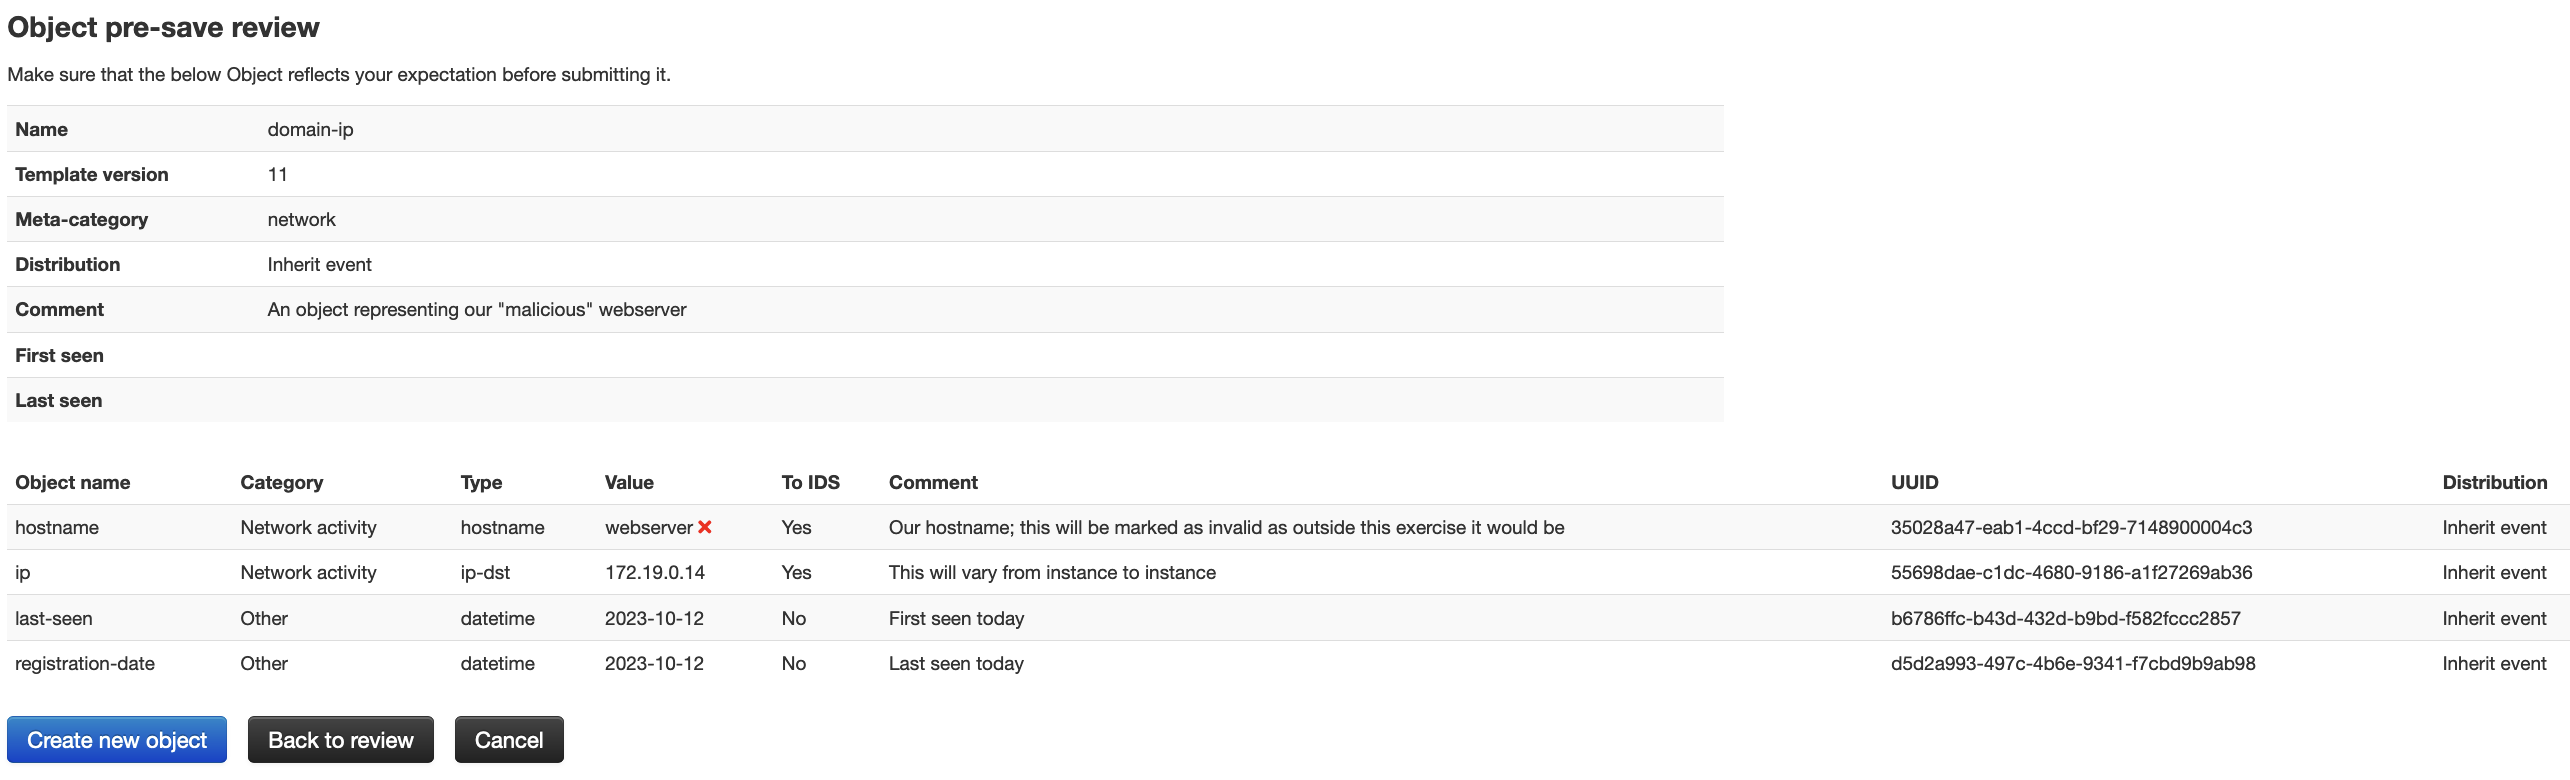
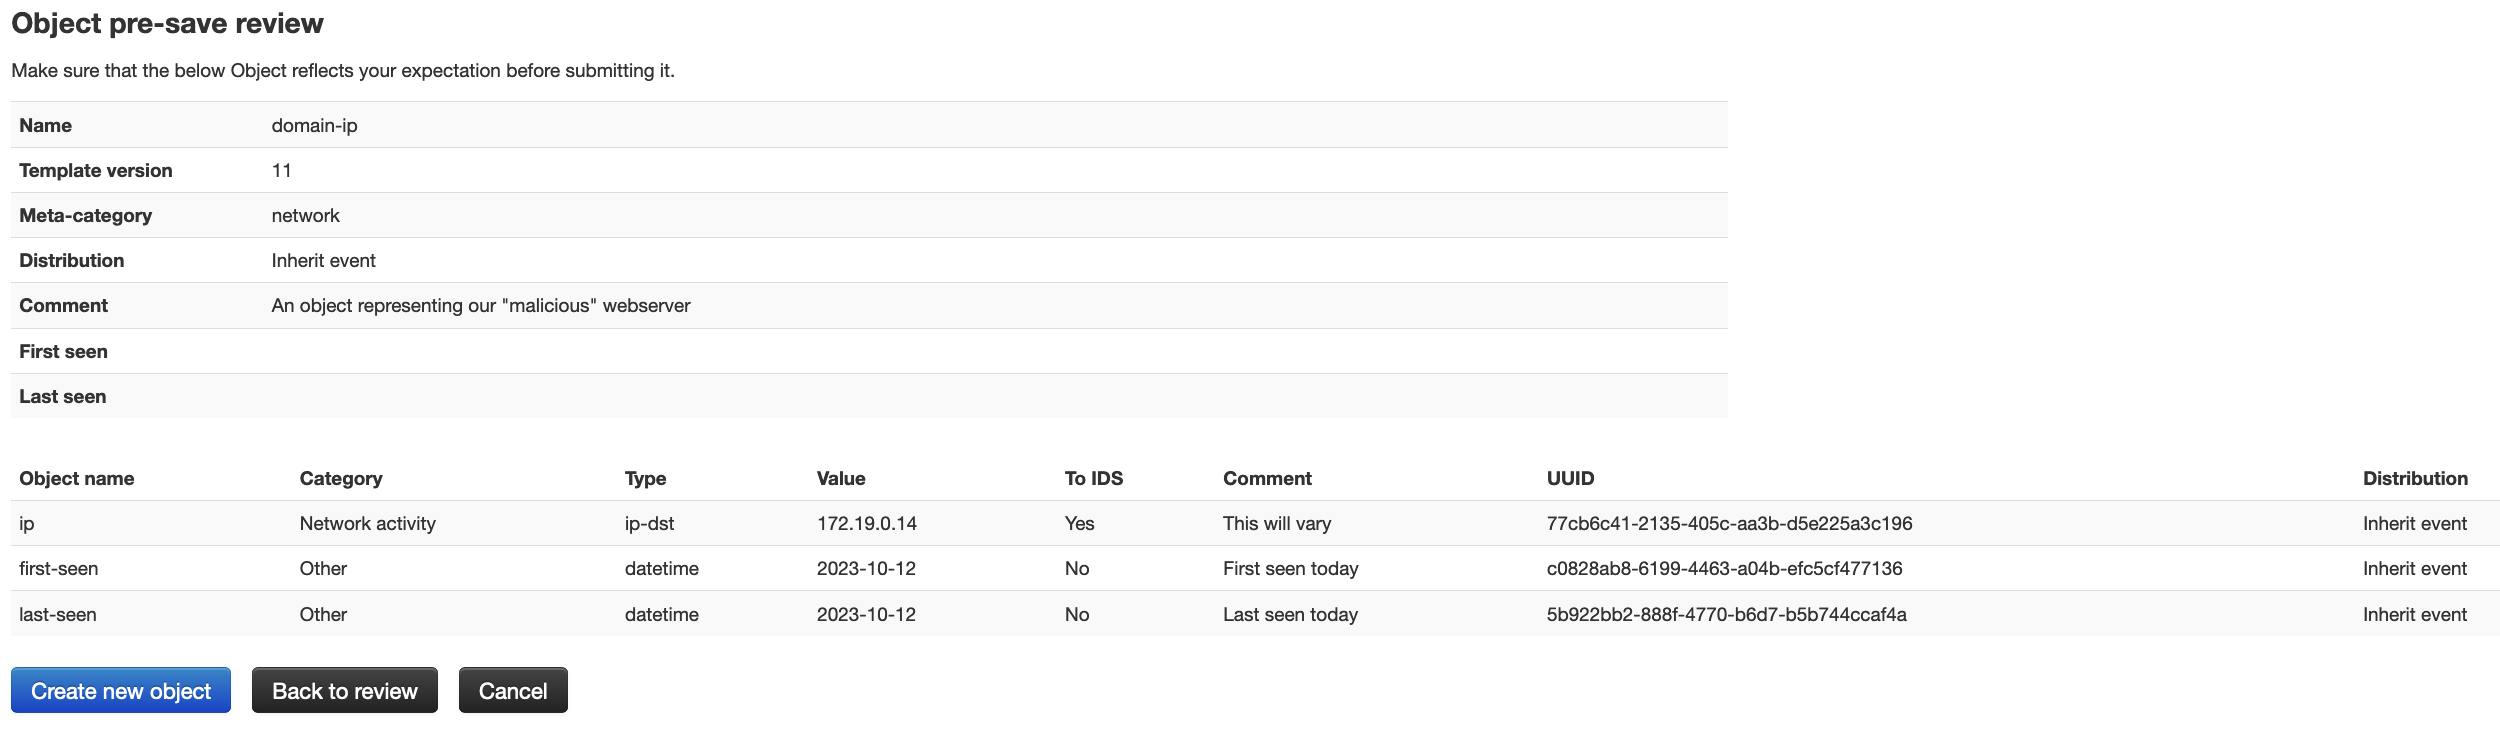
update

diff --git a/docs/exercise_six.md b/docs/exercise_six.md
@@ -37,11 +37,16 @@ Having generated some logs using zeek, we're now going to explore MISP.
 15. We'll start by adding a "network" object. Go to Add Object, and start typing "network". Click on that option and you'll see another option dropdown - start typing "domain" and choose "domain:ip"
 ![MISP domainip](images/misp_8.png)
 16. This page lets us fill in all the information we have about given domain/ip. We can add:
-    - Hostname: webserver
 	- IP: (the IP you identified earlier)
 	- You might also add first seen/last seen as today
-17. It's good practice to put comments wherever you have the option to, so add comments both to the object itself and the individual attributes, then click Submit. You'll see a review of the information, then click "Create new object" if you're happy
+17. It's good practice to put comments wherever you have the option to, so add comments both to the object itself and the individual attributes, then click Submit. You'll see a review of the information, then click "Create new object" if you're happy. MISP will attempt to validate your entries; if it finds an issue it will alert you before you can proceed.
 ![MISP domainip](images/misp_9.png)
+18. You can now see the attributes in the main event page. Note that MISP has highlighted the date in red as these attributes have not been "published" yet; i.e. it will not be propagated to sharing groups, and the attributes will not be available via the API
+![MISP domainip](images/misp_10.png)
+19. MISP uses the idea of working on an "unpublished" event until it has been completed to a certain level: the full results of an initial analysis, for example, or attributes that have not been reviewed by a user with the rights to publish. This means that a team can work on an event safe in the knowledge that the attributes will not be published until a team leader, for example, has provided a cross check.
+20. To publish, click "Publish no email" on the left hand side. While we would normally inform users of a new event, we have no other users.
+21. If you return to the home screen and select the event again, you'll see that the dates attached to the attributes are no longer highlighted since the event has been published.
+22. You can also add additional objects - for example look for the "file" objects where you can add checksums and other file details.
 
 
 
